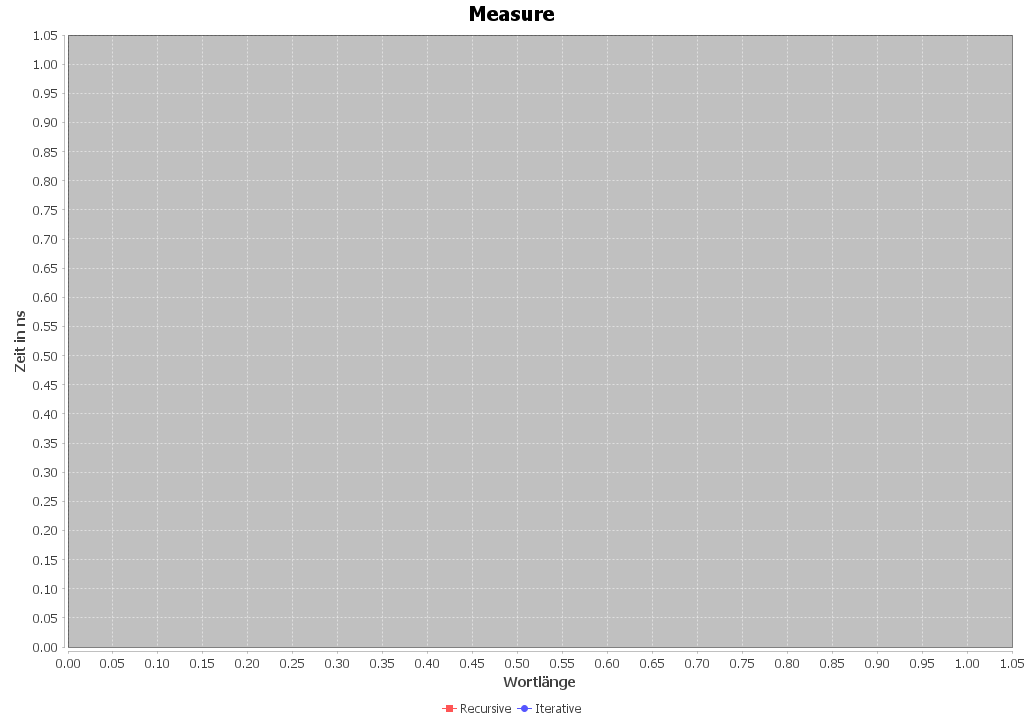
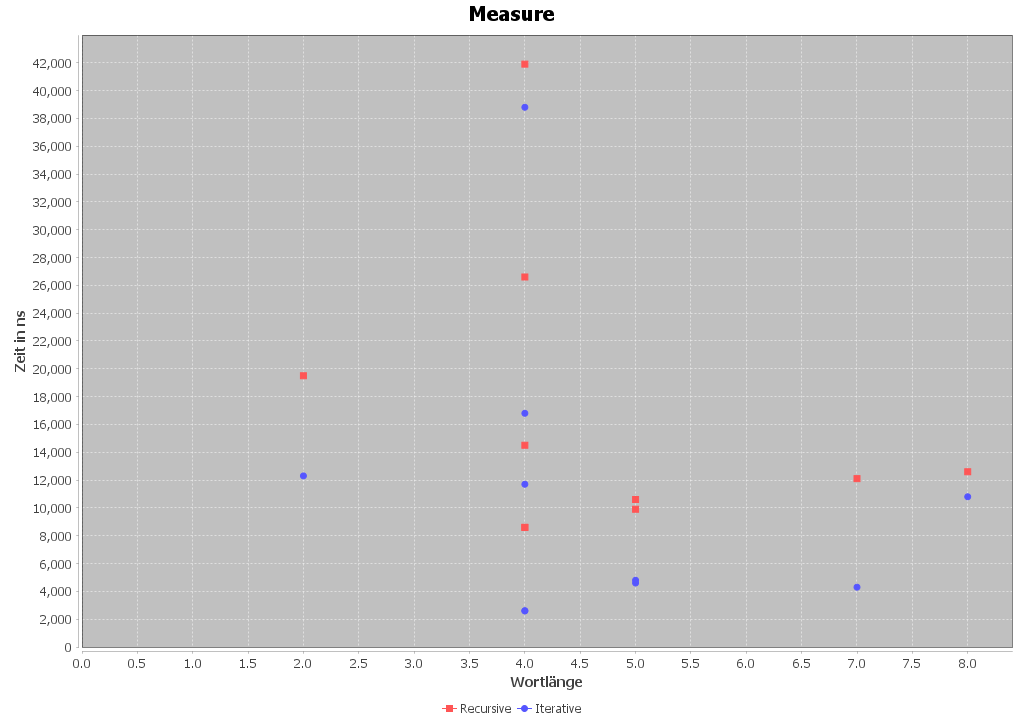
fix grah

diff --git a/ueb15/src/main/java/com/example/Palindrom.java b/ueb15/src/main/java/com/example/Palindrom.java
@@ -11,6 +11,7 @@ import java.io.FilterOutputStream;
 import java.io.IOException;
 import java.io.OutputStream;
 import java.util.ArrayList;
+import java.util.Arrays;
 import java.util.HashMap;
 import java.util.List;
 import java.util.Map;
@@ -136,6 +137,7 @@ public abstract class Palindrom implements IPalindrom {
         NumberAxis yAxis = new NumberAxis("Zeit in ns");
 
         XYSplineRenderer renderer = new XYSplineRenderer();
+        renderer.setDefaultLinesVisible(true);
         XYDataset dataset = createDataset(file);
 
         XYPlot plot = new XYPlot(dataset, xAxis, yAxis, renderer);
@@ -161,13 +163,11 @@ public abstract class Palindrom implements IPalindrom {
         String line = reader.readLine();
         while (line != null) {
             String[] lineList = line.split(",");
-            if(lineList[3] == "recursive") {
-                System.out.println(lineList[0] + lineList[1]);
+            if(lineList[3].equals("recursive")) {
                 recursiveData.add(Double.parseDouble(lineList[0]), Double.parseDouble(lineList[1]));
             }
-            if(lineList[3] == "iterative") {
-                System.out.println(lineList[0] + lineList[1]);
-                recursiveData.add(Double.parseDouble(lineList[0]), Double.parseDouble(lineList[1]));
+            if(lineList[3].equals("iterative")) {
+                iterativeData.add(Double.parseDouble(lineList[0]), Double.parseDouble(lineList[1]));
             }
             line = reader.readLine();
         }

diff --git a/ueb15/src/main/java/com/example/App.java b/ueb15/src/main/java/com/example/App.java
@@ -5,20 +5,21 @@ import java.io.IOException;
 public class App {
 
     public static void main(String[] args) throws IOException {
-        // System.out.println(new GgtIterativ().berechneGgt(28, 32));
-        // System.out.println(new GgtRekursiv().berechneGgt(28, 32));
-        // PalindromRekursiv rekursiv = new PalindromRekursiv();
-        // PalindromIterativ iterative = new PalindromIterativ();
-        // rekursiv.initialize("Otto");
-        // rekursiv.initialize("IO");
-        // rekursiv.initialize("Paap");
-        // rekursiv.initialize("TestFile.txt");
+        System.out.println(new GgtIterativ().berechneGgt(28, 32));
+        System.out.println(new GgtRekursiv().berechneGgt(28, 32));
+        
+        PalindromRekursiv rekursiv = new PalindromRekursiv();
+        PalindromIterativ iterative = new PalindromIterativ();
+        rekursiv.initialize("Otto");
+        rekursiv.initialize("IO");
+        rekursiv.initialize("Paap");
+        rekursiv.initialize("TestFile.txt");
 
-        // iterative.initialize("Otto");
-        // iterative.initialize("IO");
-        // iterative.initialize("Paap");
-        // iterative.initialize("TestFile.txt");
+        iterative.initialize("Otto");
+        iterative.initialize("IO");
+        iterative.initialize("Paap");
+        iterative.initialize("TestFile.txt");
 
-        new PalindromRekursiv().buildGraph();
+        rekursiv.buildGraph();
     }
 }
